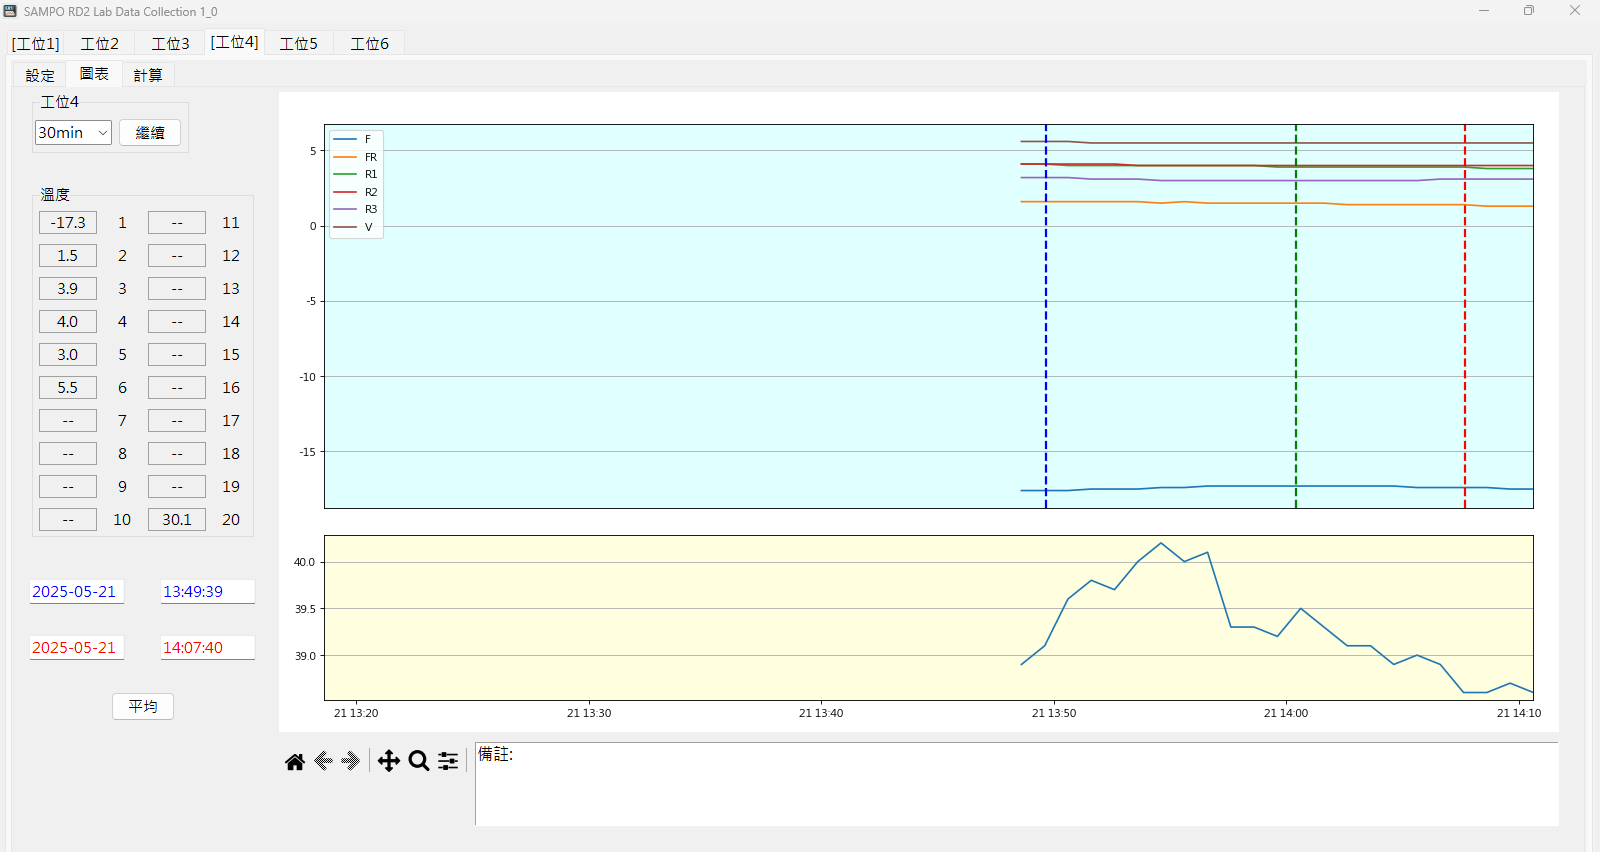
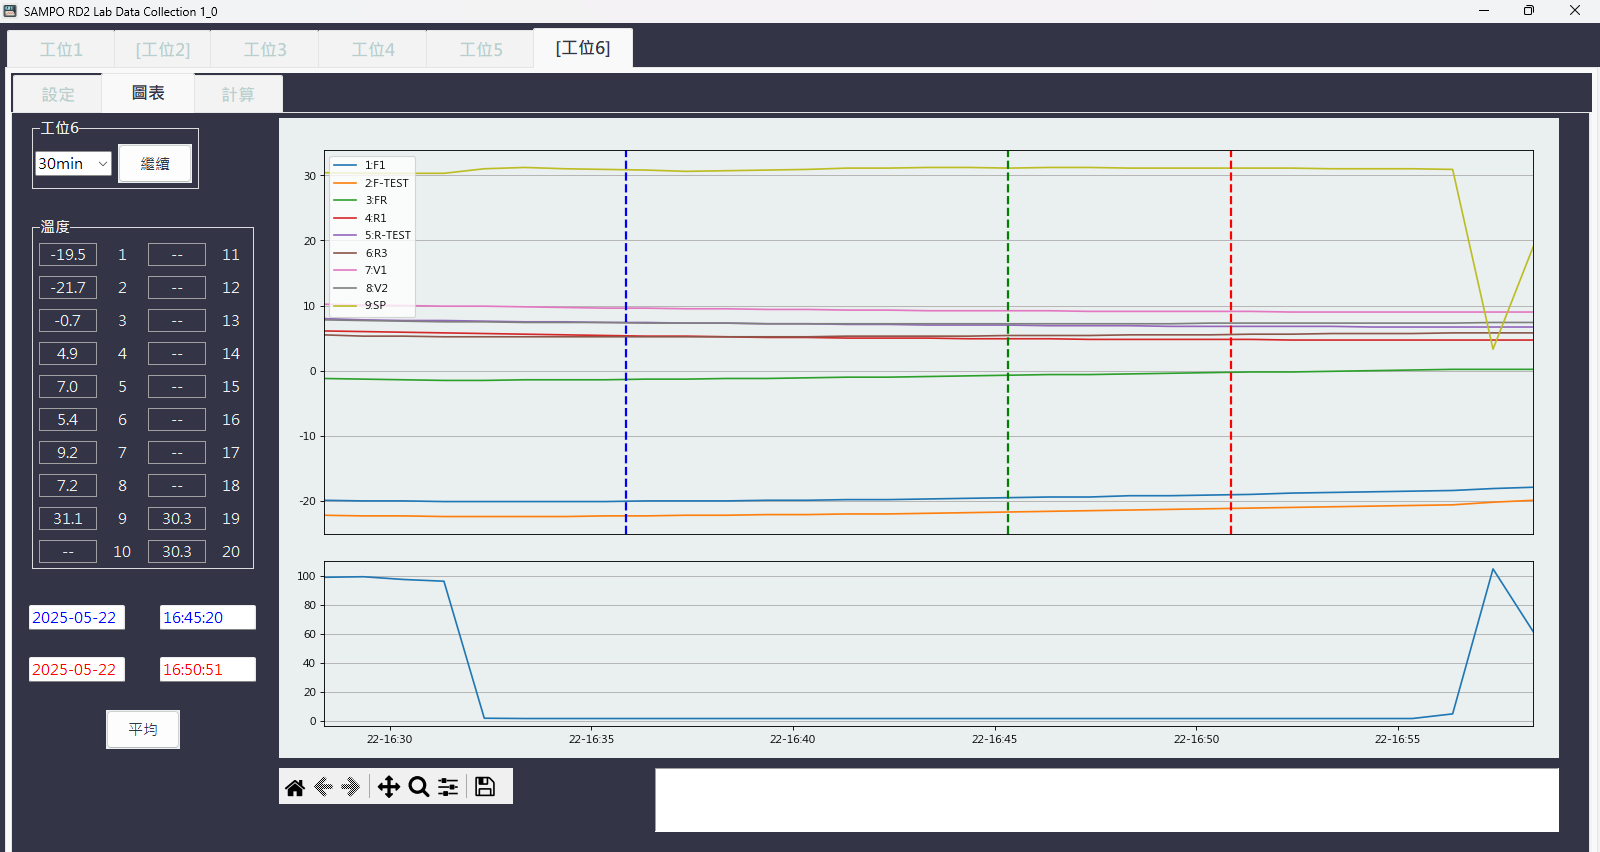
Changes to be committed: 	modified:   GX20_PW3335.py 	modified:   screen_sample1.png 	modified:   screen_sample2-puase.png 	modified:   screen_sample2.png 	modified:   screen_sample3.png

diff --git a/GX20_PW3335.py b/GX20_PW3335.py
@@ -39,7 +39,7 @@ import tempfile
 plt.rcParams['font.family'] = 'Microsoft JhengHei'
 matplotlib.rcParams['axes.unicode_minus'] = False
 
-Debug_mode = True  # 設定為 True 以啟用除錯模式
+Debug_mode = False  # 設定為 True 以啟用除錯模式
 
 # 確保 LOG 檔案儲存到執行檔所在目錄或臨時目錄
 if getattr(sys, 'frozen', False):  # 如果是 pyinstaller 打包的執行檔
@@ -498,24 +498,33 @@ class DraggableLine:
 
 class App:
     def __init__(self, root, ws, hs):
-        # --- 深色主題 Ocean Deep ---
+        # --- 主題顏色 ---
         them_colors = {
             "Ocean Deep": [
-                "#dfe1e5",  # 0: 米白
-                "#abbdd2",  # 1: 淺藍
-                "#4a7dbf",  # 2:
-                "#2e4876",  # 3: 
-                "#192938",  # 4: 
-                "#0d0d0d",  # 5: 深藍
-                "#141414"   # 6: 極深色
+                "#EAEFEF",  # 0: 白
+                "#EAEFEF",  # 1: 淺藍
+                "#B8CFCE",  # 2:
+                "#7F8CAA",  # 3: 
+                "#333446",  # 4: 
+                "#333446",  # 5: 深藍
+                "#333446"   # 6: 極深色
+            ],
+            "Serene Greens": [
+                "#f4faee",  # 0: 白
+                "#5a7939",  # 1: 淺綠
+                "#4c6d3b",  # 2:
+                "#395a2b",  # 3: 
+                "#2c4521",  # 4: 
+                "#293c16",  # 5: 深綠
+                "#1d2e17"   # 6: 極深色
             ]
         }
-        # 主背景
+# 主背景
         root.configure(bg=them_colors["Ocean Deep"][5])
         # Notebook 標籤樣式
         style = ttk.Style()
         style.configure('TNotebook.Tab', font=('Microsoft JhengHei', 13, 'bold'), padding=[16, 5],
-                        background=them_colors["Ocean Deep"][5], foreground=them_colors["Ocean Deep"][2], relief='flat')
+                        background=them_colors["Ocean Deep"][4], foreground=them_colors["Ocean Deep"][2], relief='flat')
         style.map('TNotebook.Tab',
         background=[('selected', them_colors["Ocean Deep"][5]), ('active', them_colors["Ocean Deep"][4]), ('!selected', them_colors["Ocean Deep"][4])],
         foreground=[('selected', them_colors["Ocean Deep"][4]), ('active', them_colors["Ocean Deep"][3]), ('!selected', them_colors["Ocean Deep"][2])]
@@ -539,7 +548,7 @@ class App:
         # Combobox 樣式
         style.configure('TCombobox', font=('Microsoft JhengHei', 11), fieldbackground=them_colors["Ocean Deep"][0], background=them_colors["Ocean Deep"][4], foreground=them_colors["Ocean Deep"][1])
         # Label 樣式
-        style.configure('TLabel', background=them_colors["Ocean Deep"][4], foreground=them_colors["Ocean Deep"][1], font=('Microsoft JhengHei', 11))
+        style.configure('TLabel', background=them_colors["Ocean Deep"][4], foreground=them_colors["Ocean Deep"][0], font=('Microsoft JhengHei', 11))
         # tk.Entry 也套用同色
         root.option_add('*Entry.Background', them_colors["Ocean Deep"][4])
         root.option_add('*Entry.Foreground', them_colors["Ocean Deep"][4])
@@ -560,12 +569,9 @@ class App:
         self.collecting = {}
         self.plot_data = {}
         self.x_start = {}
-        #self.x_start = {datetime.now()}
         self.x_end = {}
-        #self.x_end = datetime.now() - timedelta(minutes=30)
-
         self.collection_threads = {}
-        self.stop_events = {}  # 新增：每個工位一個 stop event
+        self.stop_events = {}  # 每個工位一個 stop event
  
         # 初始化 Notebook（頁面容器）
         self.notebook = ttk.Notebook(root)
@@ -1206,10 +1212,10 @@ class App:
                 label = alias if alias else f"Ch{channel_num}"
                 line, = ax_temp.plot([data[0] for data in plot_data], temp_values, label=label)
                 artists.append(line)
-            # 只顯示啟用的頻道圖例
+            # 只顯示啟用的頻道圖例, 若沒設定alias則顯示頻道index
             if active_ch_list:
                 legend = ax_temp.legend(
-                    [alias if alias else f"Ch{channel_num}" for _, alias, channel_num in active_ch_list],
+                    [f"{index+1}:{alias}" if alias else f"ch{index+1}" for index, alias, _ in active_ch_list],
                     loc="upper left",
                     prop=self.font_prop)
                 artists.append(legend)
@@ -1231,6 +1237,8 @@ class App:
     def show_temp_at_datetime(self, station_name, dt):
         """根據 datetime 找出最接近的溫度資料，顯示在 channel_labels"""
         plot_data = self.plot_data.get(station_name, [])
+        start_date_entry = getattr(self, f"{station_name}_start_date_entry", None)
+        start_time_entry = getattr(self, f"{station_name}_start_time_entry", None)
         if not plot_data:
             return
         # 找到最接近 dt 的資料
@@ -1241,7 +1249,12 @@ class App:
             label = channel_labels.get(ch_num)
             if label:
                 label.config(text=f"{temps[i]:.1f}" if temps[i] is not None else "--")
-
+        # 更新開始時間與結束時間
+        if start_date_entry and start_time_entry:
+            start_date_entry.delete(0, tk.END)
+            start_date_entry.insert(0, dt.strftime('%Y-%m-%d'))
+            start_time_entry.delete(0, tk.END)
+            start_time_entry.insert(0, dt.strftime('%H:%M:%S'))
 
     def toggle_pause_plot(self, station_name):
         # 檢查 plot_data 是否有 10 筆以上，否則停止程序
